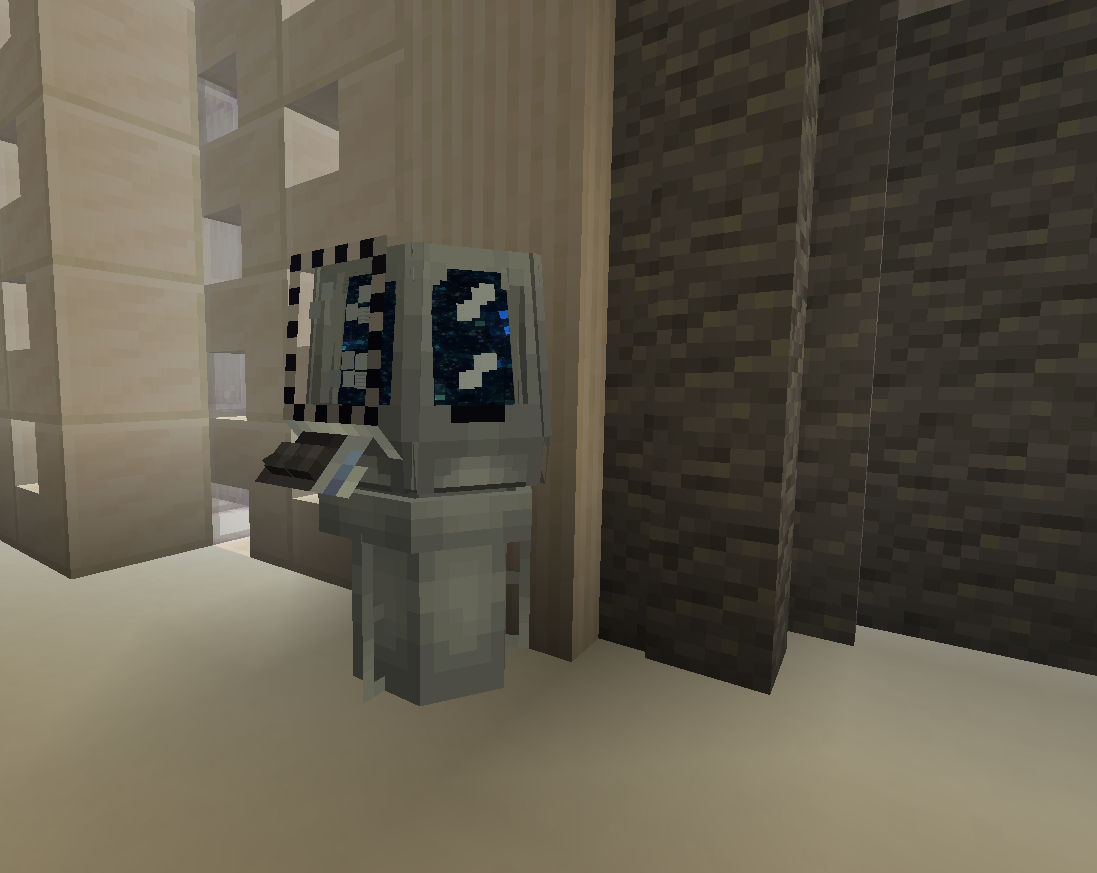
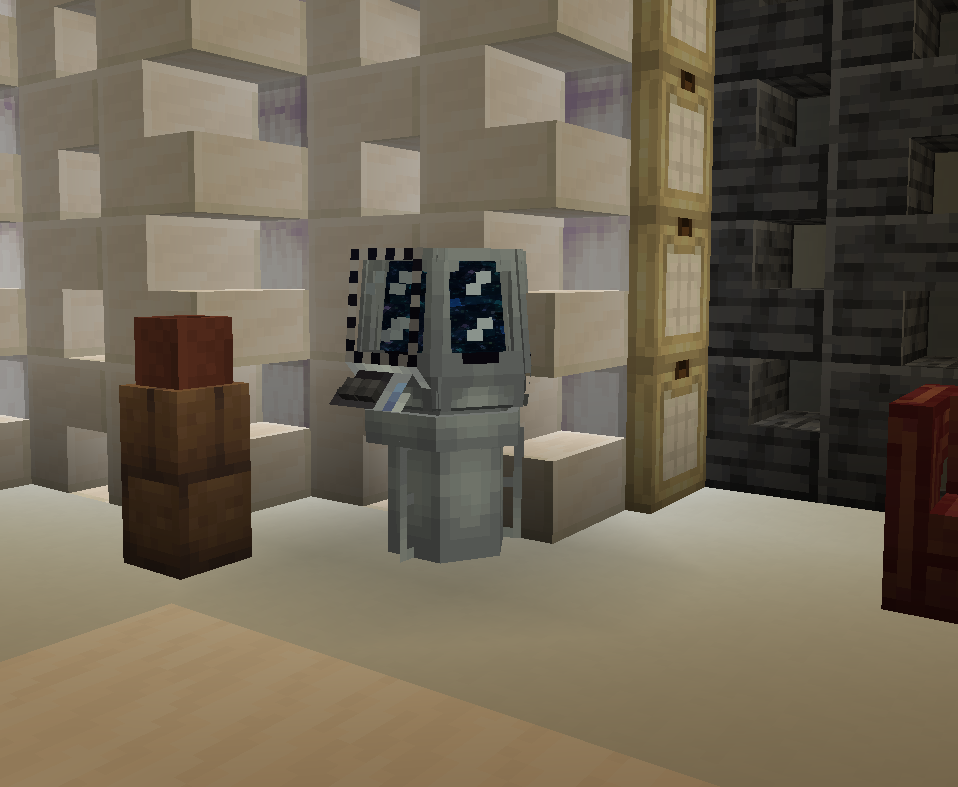
updated some stuffs

diff --git a/content/blocks/enviroment-projector.md b/content/blocks/enviroment-projector.md
@@ -10,7 +10,9 @@ params:
 
 The TARDIS enviroment projector is a fun way to change the TARDIS Interior skybox, perfect for your glass roofed interior or your flashy windows full of dazzling curtians
 
-This block can display the skybox from any dimensions (it even can work from other mods too! as long as they set it up right...)
+This block can display the skybox from any dimensions *****as seen below***** (it even can work from other mods too! as long as they set it up right...)
+
+![Enviroment Projector Recipe](images/enviroment_projector/env_space.png)
 
 ## How do I craft a Enviroment Projector?
 

diff --git a/content/blocks/power_converter.md b/content/blocks/power_converter.md
@@ -1,0 +1,16 @@
+---
+title: Power Converter
+type: docs
+params:
+    images:
+        - blocks/images/engine_stuff_blocks/pc.png
+---
+![Image of the power convertor](images/engine_stuff_blocks/pc.png)
+
+## How do i use this?
+The power converter is used to convert; zeiton shards,fuel items/blocks, and the coral blocks into AU for your TARDIS!
+You'll have to link it up to the Engine via Artron Links for it to work though.
+
+## How do i make it?
+
+![recipe](images/engine_stuff_blocks/convertor_recipe.png)
